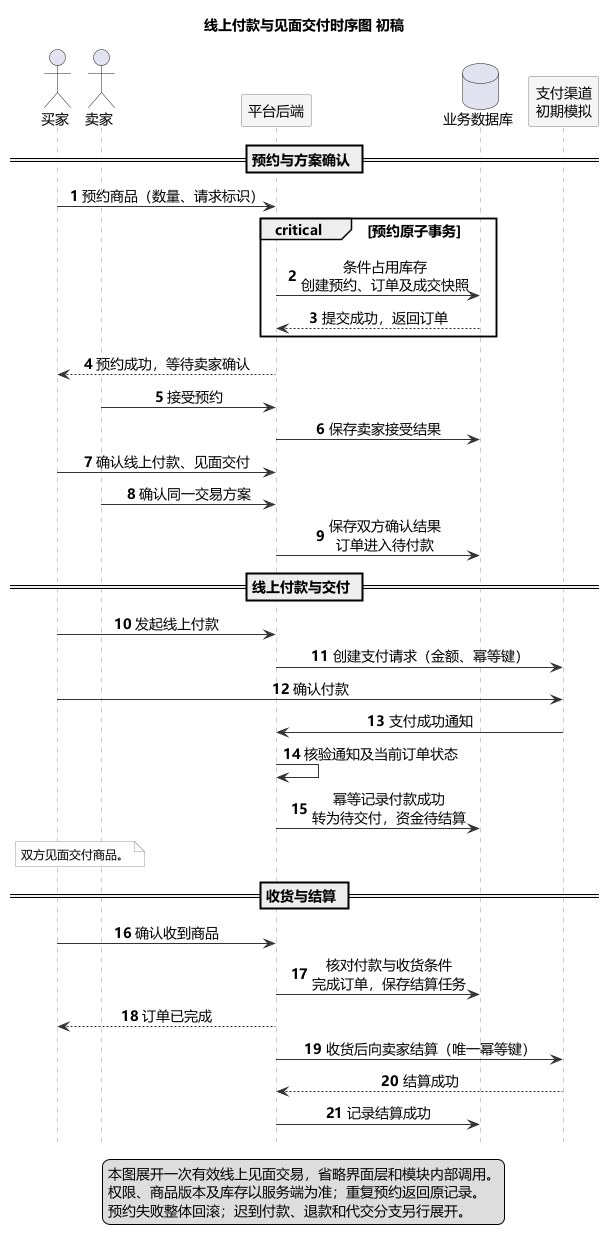
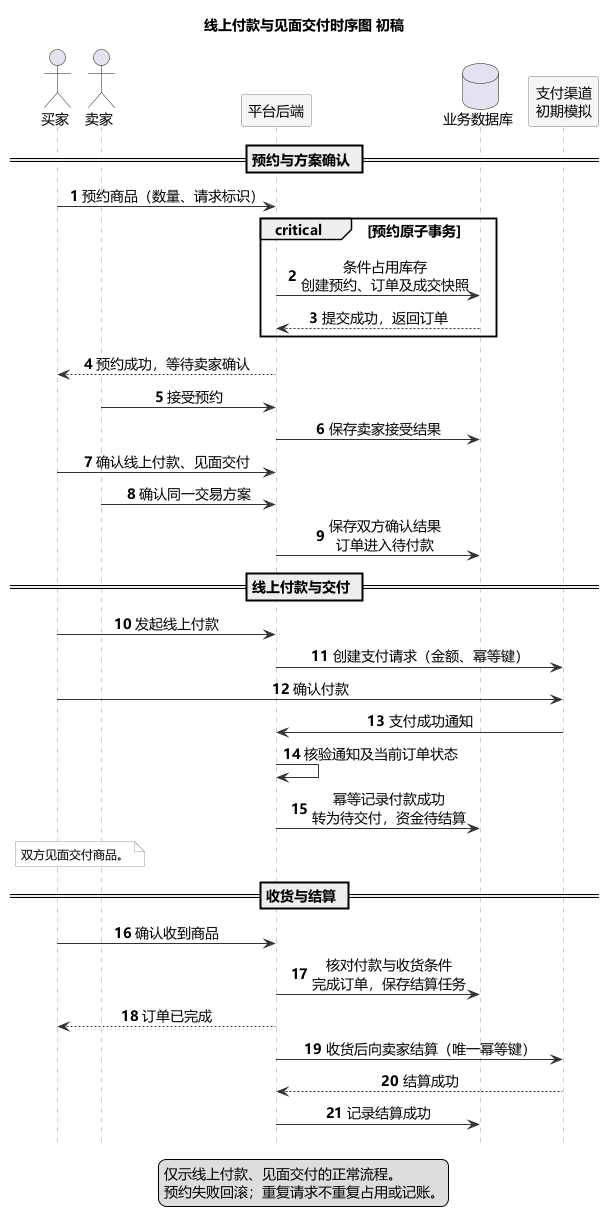
lab2: shorten sequence legend and document branch notation

diff --git a/UML/状态图与时序图初稿说明.md b/UML/状态图与时序图初稿说明.md
@@ -1,6 +1,6 @@
 # 状态图与时序图初稿说明
 
-日期：2026-11-04；版本：订单状态图 v0.3，售后申请状态图初稿 v0.1，时序图 AI 初稿 v0.1。
+日期：2026-11-04；版本：订单状态图 v0.3，售后申请状态图初稿 v0.1，时序图 v0.2。
 
 各图沿用实验一需求与现有类图、组件图。符号参考 [PlantUML 状态图](https://plantuml.com/zh/state-diagram) 和 [PlantUML 时序图](https://plantuml.com/zh/sequence-diagram) 官方样例。
 
@@ -54,7 +54,17 @@
 完成回复位于结算调用之前，明确订单完成不以结算成功为新增条件。本图只展开成功结算；失败时结算保持待处理并提醒管理员，后续按原幂等键重试，不重复转款。
 重复预约返回已有记录；无效状态、库存不足等失败请求整体回滚。支付超时后的迟到成功仅退款，不得恢复订单。上述异常、线下付款、免费赠送、平台代交和售后退款可在后续审查中决定是否增加独立时序场景。
 
+v0.2 按用户意见将图底部三行长说明精简为两行，保留场景范围、预约失败回滚和重复请求无重复效果；原有21条消息保持不变。
+
+### 分支表示
+
+时序图可用 `alt / else` 将不同条件下的交互放在同一框的不同区段，某次情形按对应条件展开。例如有效付款成功、未超时的本次付款失败、满30分钟仍未付款。失败仍待付款，超时自动取消，后续交付与结算只接在有效付款成功路径中；不能把公共后续流程放在分支外让失败情形也进入交付。
+
+`opt` 表示满足条件才执行的一段交互，`loop` 表示按条件重复；退款或结算重试仍须防止重复资金效果。交易方案不同也可用 `alt`，但售卖或赠送须依据订单原快照，不能临时改变商品交易类型。
+
+本轮仅在私有工作目录生成简短的付款分支说明示例，方便讨论，不替换正式时序图。正式图暂保留正常主线，尚未增加上述分支；迟到成功退款及售后仍按需求保留。
+
 ## 初稿审查与版本
 
-时序图和售后申请图仍为 AI 初稿。订单状态图已按用户意见精简，并在 v0.3 澄清商品交易类型与订单方案的区别；不预先声称用户已经验收修改结果。
+售后申请图仍为 AI 初稿。时序图经用户初步审阅后精简说明，保留为 v0.2 讨论稿；订单状态图已在 v0.3 澄清商品交易类型与订单方案的区别。不预先声称用户已经最终验收各图。
 源文件均可独立预览，同时导出 PNG 与 SVG。订单和售后状态图及简要说明同步进入报告，时序图仍单独保留待讨论。

diff --git a/AI使用记录/实验二_AI使用记录.md b/AI使用记录/实验二_AI使用记录.md
@@ -162,3 +162,11 @@
 - 优缺点分析：明确条件后更容易与需求及订单快照对应；待确认仍概括卖家接受和双方定方案两步，细节由正文说明，未额外增加业务状态。
 - 报告同步：补入订单、售后两张状态图及简要状态说明，AI 章节如实记录用户提出的类型区分和独立售后思路；图片等比例排版，当前五页 A4，经 Word 转换及页面渲染逐页检查。
 - 归属说明：这是用户审查驱动的表述澄清和 AI 修改，不是改变已确认的交易规则，也不是用户手工编辑图；旧订单初稿保留在 Git 历史中。
+
+## 2026-11-04 精简时序图说明并讨论分支 v0.2
+
+- 使用场景：用户初步认可正常交易时序图，要求底部说明更简练，并询问如何表达不同分支。
+- 修改结果：AI 将图底三行说明压缩为两行，保留场景范围、事务回滚与防重复要求，原有21条消息不变；参照 PlantUML 官网说明 `alt / else`、`opt` 和 `loop`。
+- 分支示例：在私有工作目录生成有效付款成功、本次付款失败未超时、30分钟未付自动取消的局部演示，不将其当作正式时序图已经增加分支。
+- 优缺点分析：精简后图面更清楚，分支框能直接对照条件与交互；若把所有交易方式和异常塞进一张图，会增加高度，仍需人工选择展开范围。
+- 核对与归属：强调失败或取消后不能继续交付，迟到成功按原规则退款；用户提出简洁要求和分支问题，AI 修改及解释，未代用户决定正式图新增哪些分支。Word 报告本轮未改写。
